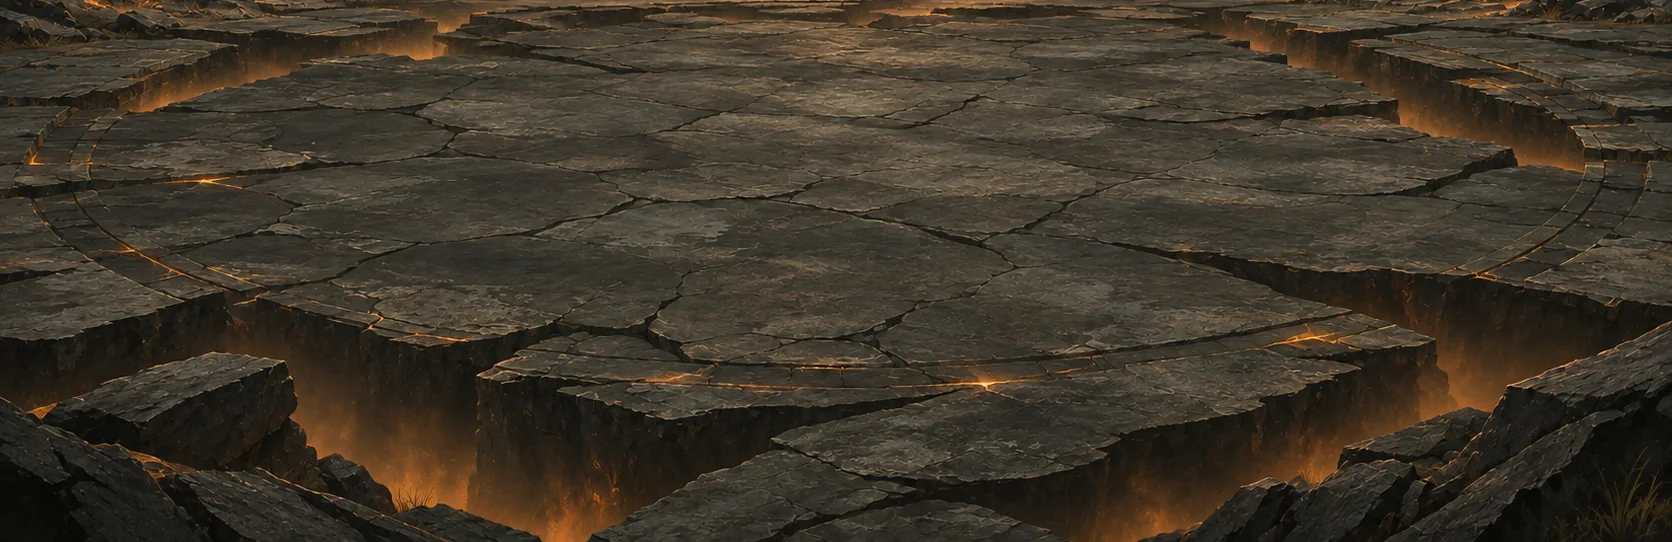
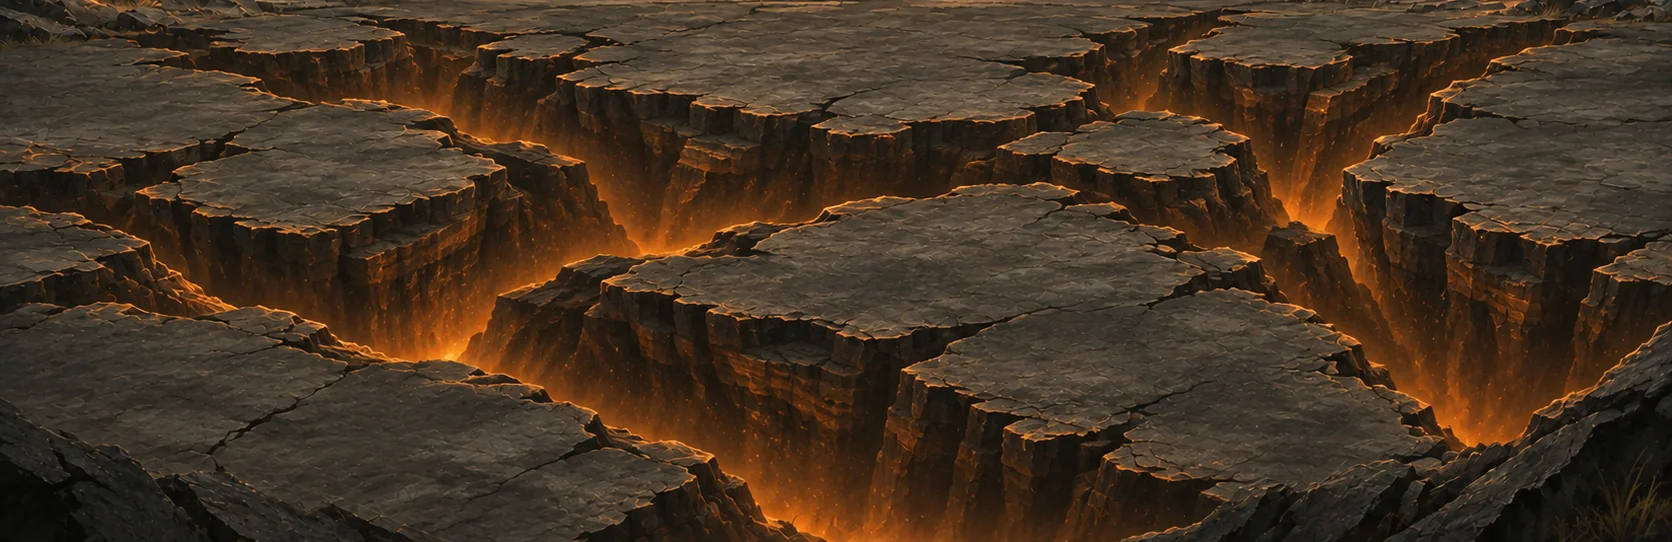
Stage the arch leg, falling ledge and deeper chasms in live battles

diff --git a/studio/browser/battle-live.spec.js b/studio/browser/battle-live.spec.js
@@ -453,7 +453,7 @@ test('keyboard inspection and settings return focus and fit a short viewport', a
 });
 
 test('cold scene resources and sampled frame intervals are recorded for release review', async ({ page }, info) => {
-  await mount(page); await choose(page);
+  const state = await mount(page); state.first.board.roundNumber = 1; await choose(page);
   const metrics = await page.evaluate(async () => {
     const intervals = []; let previous = performance.now();
     await new Promise(resolve => {
@@ -474,7 +474,7 @@ test('cold scene resources and sampled frame intervals are recorded for release 
   await info.attach('release-metrics', { body: JSON.stringify(metrics, null, 2), contentType: 'application/json' });
 });
 
-test('the horizon falls once on 3 to 4 and settles on resume, replay and reduced motion', async ({ page }) => {
+test('the horizon falls once on 1 to 2 and settles on resume, replay and reduced motion', async ({ page }) => {
   await mountSpellScene(page);
   const present = (round, { reduced = false, replay = false } = {}) => page.evaluate(({ round, reduced, replay }) => {
     window.artScene.present({ stage: 'decision', actor: null, target: null, targets: [], creatures: [], round }, reduced, 1, replay);
@@ -483,24 +483,24 @@ test('the horizon falls once on 3 to 4 and settles on resume, replay and reduced
     const piece = window.artScene.children.getByName('horizon-span');
     return { visible: piece.visible, angle: piece.angle };
   });
-  await present(4);
+  await present(2);
   expect((await span()).visible).toBe(false);
-  await present(3);
+  await present(1);
   expect(await span()).toEqual({ visible: true, angle: 0 });
-  await present(4);
+  await present(2);
   await page.clock.runFor(400);
   const midway = await span();
   expect(midway.visible).toBe(true);
   expect(midway.angle).toBeGreaterThan(0);
-  await present(4);
+  await present(2);
   expect((await span()).angle).toBe(midway.angle);
   await page.clock.runFor(800);
   expect((await span()).visible).toBe(false);
-  await present(3);
-  await present(4, { replay: true });
+  await present(1);
+  await present(2, { replay: true });
   expect((await span()).visible).toBe(false);
-  await present(3);
-  await present(4, { reduced: true });
+  await present(1);
+  await present(2, { reduced: true });
   expect((await span()).visible).toBe(false);
 });
 
@@ -525,9 +525,9 @@ test('horizon damage follows the displayed round in both directions and keeps sp
   const present = round => page.evaluate(round => window.artScene.present(
     { stage: 'decision', target: null, actor: null, targets: [], creatures: [], round }, true, 1, true), round);
   const stages = [
-    [1, ['crown', 'pier', 'span']], [2, ['pier', 'span']], [4, ['pier']], [6, ['breach', 'pier']],
-    [8, ['breach']], [10, ['breach', 'shattered-sky']], [12, ['breach', 'broken-floor', 'shattered-sky']],
-    [14, ['breach', 'broken-floor', 'faults', 'shattered-sky']],
+    [1, ['pier', 'span']], [2, ['pier']], [4, ['fallen-ledge', 'pier']], [6, ['breach', 'fallen-ledge', 'pier']],
+    [8, ['breach', 'fallen-ledge']], [10, ['breach', 'fallen-ledge', 'shattered-sky']], [12, ['breach', 'broken-floor', 'fallen-ledge', 'shattered-sky']],
+    [14, ['breach', 'broken-floor', 'fallen-ledge', 'faults', 'shattered-sky']],
   ];
   for (const [round, pieces] of stages) {
     await present(round);
@@ -540,7 +540,7 @@ test('horizon damage follows the displayed round in both directions and keeps sp
   await present(16);
   expect(await commands()).toBeGreaterThan(first);
   await present(6);
-  expect(await visible()).toEqual(['breach', 'pier']);
+  expect(await visible()).toEqual(['breach', 'fallen-ledge', 'pier']);
   await present(null);
   expect(await visible()).toEqual([]);
 });

diff --git a/battle/src/battle-horizon.ts b/battle/src/battle-horizon.ts
@@ -4,9 +4,10 @@ import { HorizonArch } from './horizon-arch';
 // The sky feathers into the floor across source rows 399–479. When both are present they reconstruct
 // the final painting. The background still owns the original crop and camera in every orientation.
 const plates = [
-  { file: 'breach', round: 6, top: 0, depth: -9.8 },
-  { file: 'shattered-sky', round: 10, top: 0, depth: -9.5 },
-  { file: 'broken-floor', round: 12, top: 399, depth: -9.6 },
+  { file: 'fallen-ledge', round: 4, left: 450, top: 300, replacedAt: 6, depth: -9.9 },
+  { file: 'breach', round: 6, left: 0, top: 0, replacedAt: 12, depth: -9.8 },
+  { file: 'shattered-sky', round: 10, left: 0, top: 0, replacedAt: Infinity, depth: -9.5 },
+  { file: 'broken-floor', round: 12, left: 0, top: 399, replacedAt: Infinity, depth: -9.6 },
 ] as const;
 const TRANSITION_MS = 950;
 
@@ -31,7 +32,8 @@ export class BattleHorizon {
     this.arch.layout(width, height, this.backdrop.y + this.backdrop.displayHeight * .42);
     for (const plate of plates) {
       this.images.get(plate.file)?.setScale(this.backdrop.scaleX, this.backdrop.scaleY)
-        .setPosition(this.backdrop.x, this.backdrop.y + plate.top * this.backdrop.scaleY);
+        .setPosition(this.backdrop.x - this.backdrop.displayWidth / 2 + plate.left * this.backdrop.scaleX,
+          this.backdrop.y + plate.top * this.backdrop.scaleY);
     }
     this.draw();
   }
@@ -48,7 +50,7 @@ export class BattleHorizon {
     if (round !== null) {
       for (const plate of plates) {
         // A late join needs only the visible tiles. The breach also backs the feathered sky until round 12.
-        if (round >= plate.round - 1 && (plate.round !== 6 || round < 12)) this.load(plate);
+        if (round >= plate.round - 1 && round < plate.replacedAt) this.load(plate);
       }
     }
     this.draw();
@@ -59,7 +61,7 @@ export class BattleHorizon {
     this.requested.add(plate.file);
     const key = 'horizon-' + plate.file;
     this.scene.load.once('filecomplete-image-' + key, () => {
-      const image = this.scene.add.image(0, 0, key).setName(key).setOrigin(.5, 0)
+      const image = this.scene.add.image(0, 0, key).setName(key).setOrigin(0, 0)
         .setTint(0xb5bbc2).setDepth(plate.depth);
       this.images.set(plate.file, image);
       // The player may have rewound or rotated while the file was in flight.
@@ -79,8 +81,15 @@ export class BattleHorizon {
     const progress = this.elapsed / TRANSITION_MS;
     this.arch.draw(this.round, progress);
     for (const plate of plates) {
+      const image = this.images.get(plate.file);
+      if (!image) continue;
       const visible = this.round !== null && this.round >= plate.round;
-      this.images.get(plate.file)?.setVisible(visible).setAlpha(this.round === plate.round ? progress : 1);
+      const alpha = this.round === plate.round ? progress : 1;
+      image.setVisible(visible).setAlpha(alpha);
+      if (plate.file === 'fallen-ledge') {
+        // Reveal the exposed cliff from the back edge toward the fighters as the shelf gives way.
+        image.setCrop(0, 0, image.width, Math.ceil(image.height * alpha));
+      }
     }
     this.drawFaults(progress);
   }

diff --git a/battle/src/horizon-arch.ts b/battle/src/horizon-arch.ts
@@ -1,13 +1,11 @@
 import Phaser from 'phaser';
 
-// Contours in the original eclipse-battle.webp. The crown separates along a masonry joint.
+// Contours in the original eclipse-battle.webp. The right support and its half-span fall as one piece.
 // Reusing the painted stone keeps its palette and detail without another boot download.
-const crown = 'M79 48 L92 41 L100 20 L118 24 L127 17 L145 21 L151 37 L171 46 L174 65 L153 63 L143 73 L121 69 L110 81 L78 73 Z';
-const standing = 'M48 328 L51 186 L64 177 L61 151 L71 144 L70 129 L59 125 L65 98 L64 89 L74 83 L78 73 L110 81 L121 69 L143 73 L153 63 L174 65 L207 80 L218 86 L214 101 L222 111 L213 121 L215 136 Q188 151 184 182 L180 199 L183 204 L178 213 L183 324 L194 334 L190 348 L74 350 Z';
+const standing = 'M48 328 L51 186 L64 177 L61 151 L71 144 L70 129 L59 125 L65 98 L64 89 L74 83 L79 48 L92 41 L100 20 L118 24 L127 17 L145 21 L151 37 L171 46 L174 65 L207 80 L218 86 L214 101 L222 111 L213 121 L215 136 Q188 151 184 182 L180 199 L183 204 L178 213 L183 324 L194 334 L190 348 L74 350 Z';
 const falling = 'M215 136 L213 121 L222 111 L214 101 L218 86 L234 93 L237 100 L255 106 L257 98 L278 94 L285 97 L300 104 L299 130 L302 135 L299 149 L299 202 L295 211 L298 221 L296 265 L299 277 L297 330 L304 337 L302 350 L235 350 L237 333 L243 325 L243 208 L240 204 L243 197 Q240 156 219 143 Z';
 
 export class HorizonArch {
-  private readonly crown: Phaser.GameObjects.Image;
   private readonly pier: Phaser.GameObjects.Image;
   private readonly span: Phaser.GameObjects.Image;
 
@@ -39,7 +37,6 @@ export class HorizonArch {
       return scene.add.image(0, 0, key).setName(key).setOrigin(.85, .98).setDepth(-9).setVisible(false)
         .setTint(0xa5b1b3).setAlpha(.91);
     };
-    this.crown = piece('crown', crown);
     this.pier = piece('pier', standing);
     this.span = piece('span', falling);
   }
@@ -63,8 +60,7 @@ export class HorizonArch {
         .setPosition(this.x + turn * .6 * this.scale * drop, this.y + travel * this.scale * drop)
         .setAngle(turn * drop).setAlpha(.91 * (1 - drop));
     };
-    piece(this.crown, 2, -22, 180);
-    piece(this.span, 4, 57, 48);
+    piece(this.span, 2, 57, 48);
     piece(this.pier, 8, -36, 100);
   }
 }

diff --git a/studio/browser/battle.horizon.js b/studio/browser/battle.horizon.js
@@ -1,0 +1,30 @@
+import { test, expect } from '@playwright/test';
+import { returningBattlePlayer } from './battle-help-fixture.js';
+import { startHost, stopHost } from './host.js';
+
+test.beforeEach(returningBattlePlayer);
+
+// Let the real engine play up to the handover. The accepted seat opens the production battle directly.
+for (const [round, art] of [[2, []], [4, ['fallen-ledge']], [6, ['breach']], [12, ['shattered-sky', 'broken-floor']]]) {
+  test('the live battlefield at handover round ' + round, async ({ page }, info) => {
+    const { host, join } = await startHost('at-activation', ['--handover', String(round), '--p2', 'random']);
+    const loaded = [];
+    page.on('response', response => {
+      if (response.ok() && response.url().includes('/battle-art/horizon/')) loaded.push(new URL(response.url()).pathname);
+    });
+    try {
+      await page.goto(join);
+      await page.locator('#invitation-take').click();
+      await page.waitForURL(/\/battle(?:\?|$)/);
+      await expect(page.locator('#battle')).toHaveAttribute('data-ready', 'true');
+      await expect(page.locator('#loading')).toBeHidden();
+      await expect(page.locator('#round-number')).toHaveText(String(round).padStart(2, '0'));
+      await expect(page.locator('.creature').first()).toBeVisible();
+      for (const file of art) await expect.poll(() => loaded).toContain('/battle-art/horizon/' + file + '.webp');
+      // The handover is an even-round tempo choice; close its sheet to see the entire playing surface.
+      await page.locator('#planning-close').click();
+      await expect(page.locator('#planning-dialog')).toBeHidden();
+      await page.screenshot({ path: info.outputPath('live-round-' + round + '.jpg'), type: 'jpeg', quality: 86 });
+    } finally { await stopHost(host); }
+  });
+}

diff --git a/studio/browser/table.config.js b/studio/browser/table.config.js
@@ -2,7 +2,7 @@ import { defineConfig } from '@playwright/test';
 
 export default defineConfig({
   testDir: '.',
-  testMatch: ['table.practice.js', 'table.slot.js', 'table.push.js', 'battle.live.js', 'battle.combat.js', 'battle.loop.js', 'battle.growth.js'],
+  testMatch: ['table.practice.js', 'table.slot.js', 'table.push.js', 'battle.live.js', 'battle.combat.js', 'battle.loop.js', 'battle.growth.js', 'battle.horizon.js'],
   workers: 1,
   timeout: 45000,
   use: { launchOptions: { executablePath: process.env.STUDIO_CHROMIUM }, trace: 'retain-on-failure', screenshot: 'only-on-failure' },

diff --git a/src/DownfallArena.Cli/Table/TableFiles.cs b/src/DownfallArena.Cli/Table/TableFiles.cs
@@ -128,6 +128,7 @@ internal sealed class TableFiles
             ["/battle-build/game.js.LEGAL.txt"] = (Path.Combine(tableDirectory, "battle-build", "game.js.LEGAL.txt"), StudioResponse.Plain),
             ["/battle-build/PHASER-LICENSE.txt"] = (Path.Combine(tableDirectory, "battle-build", "PHASER-LICENSE.txt"), StudioResponse.Plain),
             ["/battle-art/eclipse-battle.webp"] = (Path.Combine(tableDirectory, "battle-art", "eclipse-battle.webp"), Webp),
+            ["/battle-art/horizon/fallen-ledge.webp"] = (Path.Combine(tableDirectory, "battle-art", "horizon", "fallen-ledge.webp"), Webp),
             ["/battle-art/horizon/breach.webp"] = (Path.Combine(tableDirectory, "battle-art", "horizon", "breach.webp"), Webp),
             ["/battle-art/horizon/shattered-sky.webp"] = (Path.Combine(tableDirectory, "battle-art", "horizon", "shattered-sky.webp"), Webp),
             ["/battle-art/horizon/broken-floor.webp"] = (Path.Combine(tableDirectory, "battle-art", "horizon", "broken-floor.webp"), Webp),

diff --git a/tests/DownfallArena.Cli.Tests/Table/TableFilesTests.cs b/tests/DownfallArena.Cli.Tests/Table/TableFilesTests.cs
@@ -142,6 +142,7 @@ public sealed class TableFilesTests
     /// <summary>The scene's art is bytes, served as the image it is rather than decoded as text.</summary>
     [Theory]
     [InlineData("eclipse-battle")]
+    [InlineData("horizon/fallen-ledge")]
     [InlineData("horizon/breach")]
     [InlineData("horizon/shattered-sky")]
     [InlineData("horizon/broken-floor")]

diff --git a/battle/README.md b/battle/README.md
@@ -19,10 +19,11 @@ Open the printed host URL at `/battle-lab`. For a static preview after building:
 `python3 -m http.server 8765`, then `/table/battle-lab.html` on that server.
 For the horizon study, open `/battle-lab?study=horizon` (static preview: `/table/battle-lab.html?study=horizon`).
 Use **Enter round 2** and the subsequent even-round buttons to advance. **Reset scene** returns to round 1.
-The crown falls at 2, the span at 4, the distant city and the edge of the plateau at 6, and the remaining pier at 8.
-The eclipse splits at 10 and the floor breaks into islands at 12. Another fissure opens on each later even round.
+The right leg of the arch and its span collapse at 2. At 4 a section of the far ledge gives way between the teams.
+Storm clouds gather over the collapsing city at 6, and the remaining pier falls at 8.
+The eclipse splits at 10 and wide chasms cut through the center of the floor at 12. Another fissure opens on each later even round.
 The live battle uses the displayed round. Odd rounds keep the previous damage. Reduced motion and replay navigation
-show the settled view. The three additional WebP tiles load on demand, starting one round before their reveal.
+show the settled view. The additional WebP tiles load on demand, starting one round before their reveal.
 
 Rebuild after changing TypeScript or the imported shared table modules; there is no watch server.
 
